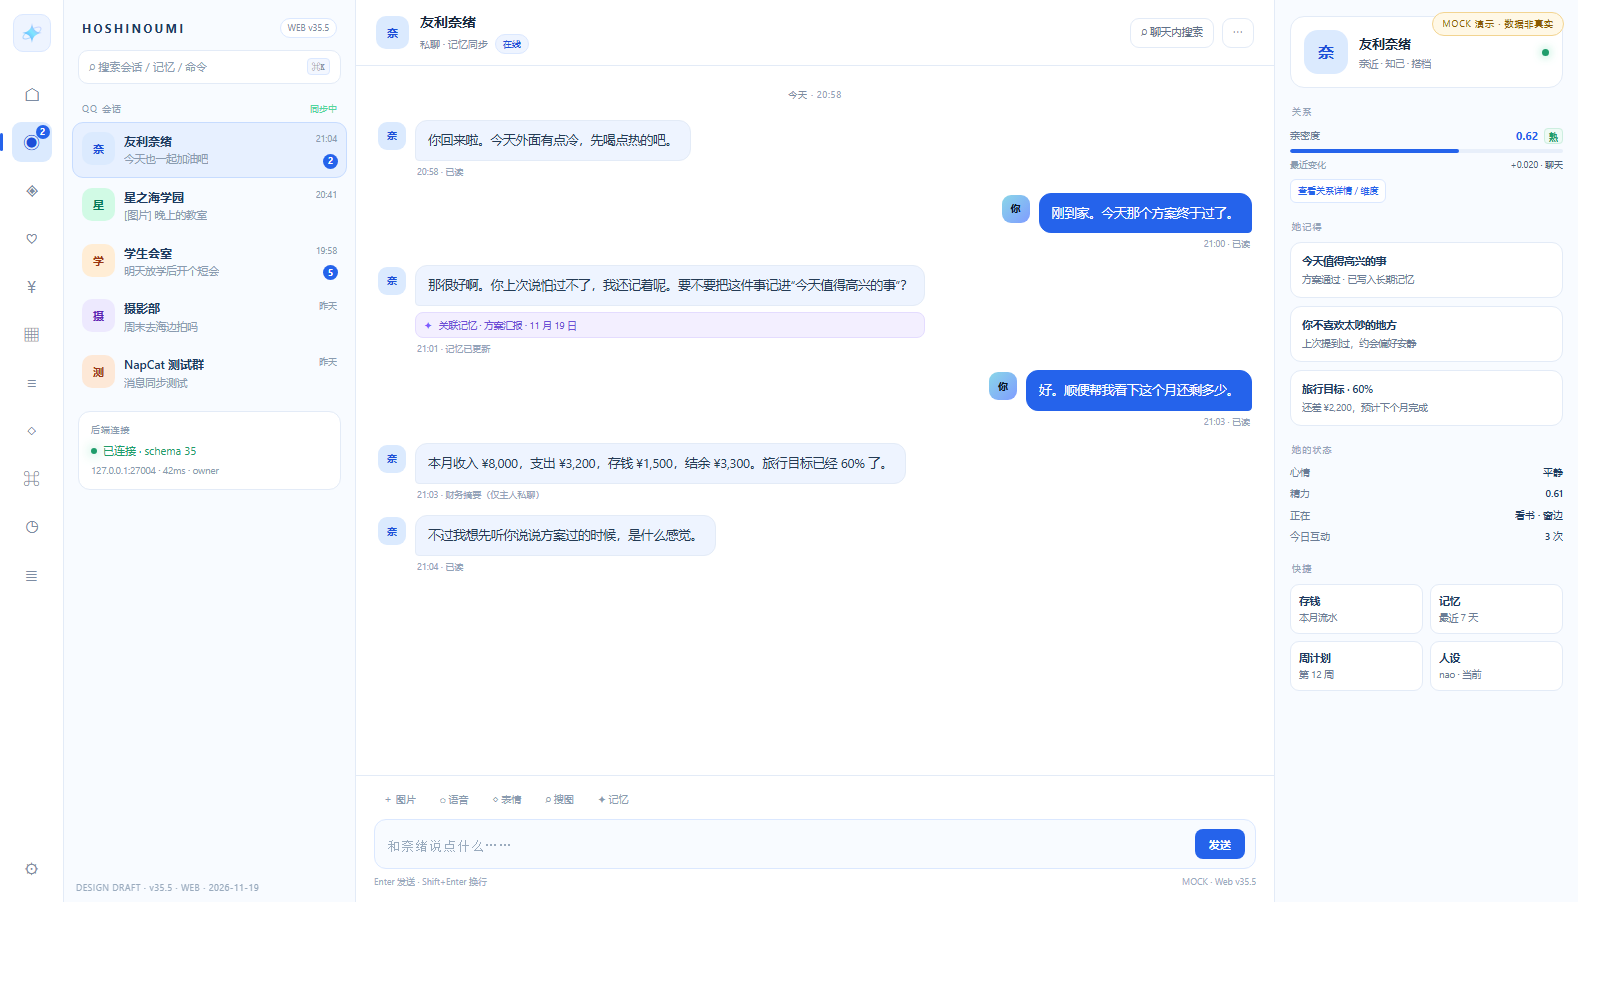
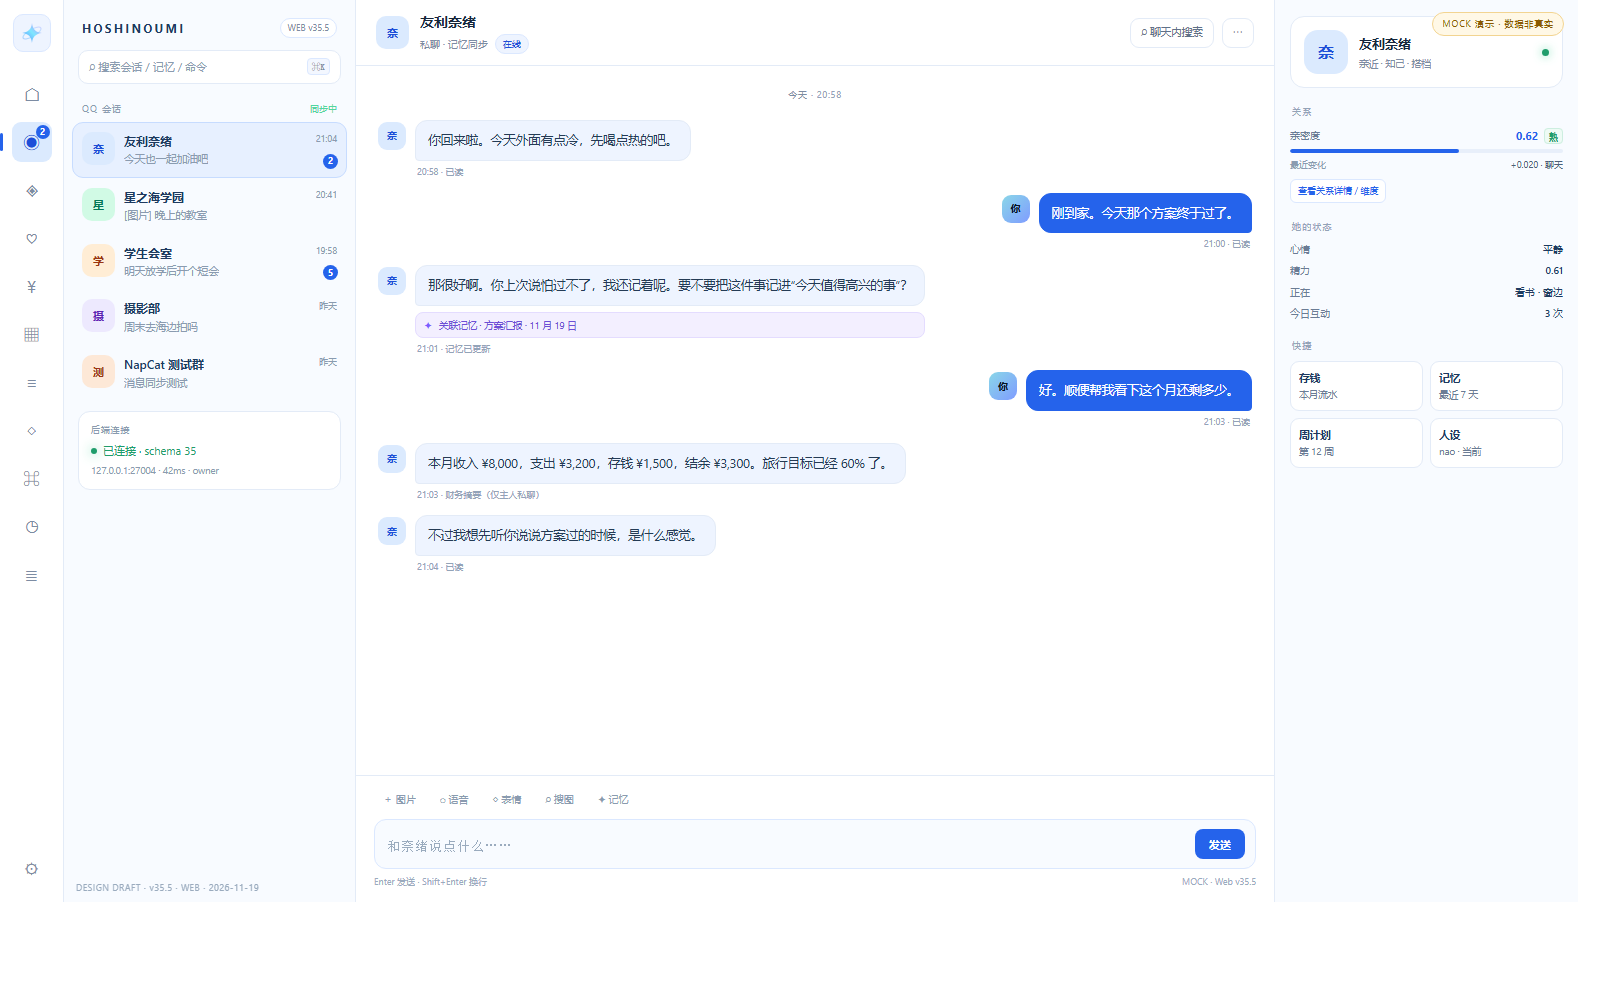
style(v35.5): 移除右侧记忆卡片

diff --git a/docs/design/v35/web/hoshinoumi-web-v35.5.html b/docs/design/v35/web/hoshinoumi-web-v35.5.html
@@ -386,10 +386,6 @@ button{color:inherit}
     <div class="rel-meta">最近变化 <span>+0.020 · 聊天</span></div>
     <button class="rel-more" data-page="relation">查看关系详情 / 维度</button>
 
-    <div class="sec">她记得</div>
-    <div class="card"><h4>今天值得高兴的事</h4><p>方案通过 · 已写入长期记忆</p></div>
-    <div class="card"><h4>你不喜欢太吵的地方</h4><p>上次提到过，约会偏好安静</p></div>
-    <div class="card"><h4>旅行目标 · 60%</h4><p>还差 ¥2,200，预计下个月完成</p></div>
 
     <div class="sec">她的状态</div>
     <div class="life">
@@ -409,6 +405,6 @@ button{color:inherit}
   </aside>
 </div>
 <div class="tagdraft">DESIGN DRAFT · v35.5 · WEB · 2026-11-19</div>
-<script src="demo.js?v=35.5.23"></script>
+<script src="demo.js?v=35.5.24"></script>
 </body>
 </html>

diff --git a/docs/versions/v35.md b/docs/versions/v35.md
@@ -263,6 +263,7 @@ v35.5.19.0  信息页（运行/数据库/日志/计划/阅读）
 v35.5.20.0  定时任务 CRUD（新增/编辑/启停/删除）
 v35.5.21.0  运行日志控制台（行式/筛选）
 v35.5.22.0  关系卡只展示后端字段（多维动态）
+v35.5.23.0  右侧上下文精简（移除“她记得”卡片）
 ```
 
 | 版本             | 内容                                         | 开发思路                                                                                         | 验收                     |
@@ -387,6 +388,7 @@ HTML：解析 #KebiaoTable1 的 SjdXY 与 dl/dt/dd
 | **v35.5.20.0** | 定时任务 CRUD | 列表；新增/编辑；启用/停用；删除；立即运行 | 能增删改定时任务 |
 | **v35.5.21.0** | 运行日志控制台 | 一行一条；级别筛选；搜索；刷新；清空；自动滚底；无卡片 | 像后台日志一样可读 |
 | **v35.5.22.0** | 关系卡只展示后端字段 | 亲密度 / 档位 / 最近变化；未来 dimensions 数组动态渲染，超过 3 个折叠 | 不写死信任/理解/安全感 |
+| **v35.5.23.0** | 右侧上下文精简 | 只保留关系/生活状态；记忆详情归记忆页 | 不重复展示记忆卡 |
 | **v35.6.0.0** | Vue 套壳桌面：Tauri 包 Vue Web | 只做壳/托盘/更新，不重写 UI | 桌面能登录聊天 |
 | **v35.6.1.0** | Vue 套壳手机：WebView/Capacitor 包 Vue | 快速验证；不做深度原生 | 手机能登录聊天 |
 | **v35.6.2.0** | 套壳打包/自检/更新 | 安装包/自检/版本提示；兼容包≤50MB；前台≤4GB | 安装包可用且不臃肿 |
@@ -485,6 +487,7 @@ supervisor 切换/重启不退化
 | v35.5.20.0 | 定时任务 CRUD | 能增删改 |
 | v35.5.21.0 | 运行日志控制台（行式/筛选） | 无卡片，一行一条 |
 | v35.5.22.0 | 关系卡只展示后端字段 | 不写死固定维度 |
+| v35.5.23.0 | 右侧上下文精简 | 不重复记忆卡 |
 
 会话列表规则：
 

diff --git a/docs/design/v35/web/DEVELOPMENT.md b/docs/design/v35/web/DEVELOPMENT.md
@@ -132,6 +132,18 @@ dimensions: [{key,label,value,visible}]
 
 不要写死“信任 / 理解 / 安全感”这类前端虚构维度。
 
+## 3.10 右侧上下文
+
+右侧只放：
+
+```text
+关系：亲密度 / 档位 / 最近变化
+生活状态：心情 / 精力 / 正在 / 今日互动
+快捷入口
+```
+
+记忆详情归记忆页，不在聊天右侧重复堆卡片。
+
 ## 4. 次次版本
 
 | 版本 | 交付 | 验收 |
